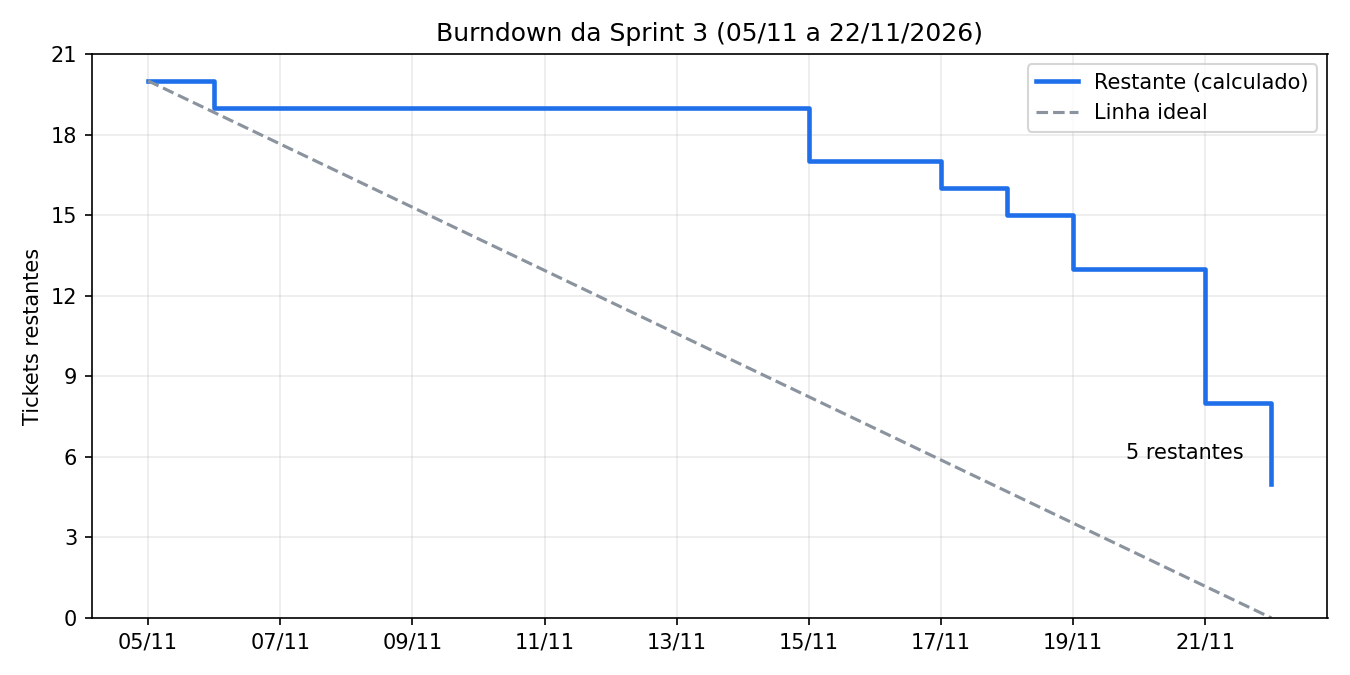
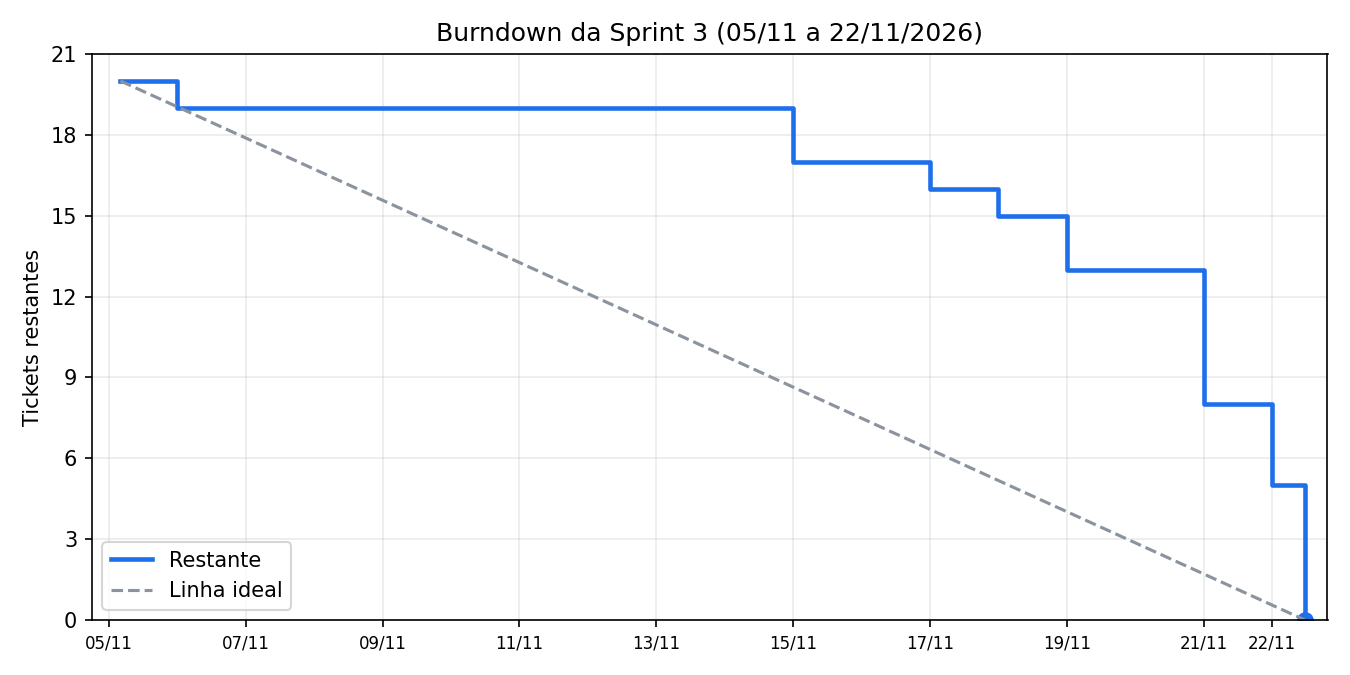
docs: SHIFU-117 close all Sprint 3 tickets and update the burndown
All 20 tickets are now counted as done in the report, stories included.
The burndown chart ends at zero at the end of the sprint.

diff --git a/documentation/sprints/sprint-3-report.md b/documentation/sprints/sprint-3-report.md
@@ -5,15 +5,15 @@
 
 ## Como ler este relatório
 
-Os números vêm do Jira (quadro 331, `Sprint = 499`), consultado em 22/11/2026 às 23:38. A decisão de fechamento é do solicitante: **todas as 17 tasks são consideradas prontas**. As 3 User Stories não entram nessa decisão e seguem o estado do Jira.
+Os números vêm do Jira (quadro 331, `Sprint = 499`), consultado em 22/11/2026 às 23:38. A decisão de fechamento é do solicitante: **todos os 20 tickets são considerados prontos**, as 3 User Stories e as 17 tasks. Esse é o mesmo critério usado nos relatórios das Sprints 1 e 2.
 
-O estado real do Jira é diferente e aparece em cada tabela. Ele mostra 14 tasks `Concluído` e 3 em `Code Review`. O Jira também ainda mostra a sprint como `active`, mesmo depois do fim configurado (23:30). Ela precisa ser encerrada no quadro.
+O estado real do Jira é diferente e aparece em cada tabela. Ele mostra 15 tickets em `Concluído`, 3 em `Code Review`, 1 em `Fazendo` e 1 em `A fazer`. O Jira também ainda mostra a sprint como `active`, mesmo depois do fim configurado (23:30). Ela precisa ser encerrada no quadro.
 
 ## Resumo executivo
 
-**18 dos 20 tickets estão prontos no fechamento (90%):** as 17 tasks e a história SHIFU-54. Ficaram abertas duas histórias: a SHIFU-22, em `A fazer`, e a SHIFU-53, em `Fazendo`. No Jira, só 15 tickets estão em `Concluído`.
+**Os 20 tickets estão prontos no fechamento (100%).** No Jira, só 15 estão em `Concluído`. Os outros cinco são as tasks SHIFU-98, SHIFU-121 e SHIFU-131 (`Code Review`) e as histórias SHIFU-53 (`Fazendo`) e SHIFU-22 (`A fazer`).
 
-A sprint teve 3 User Stories e 17 tasks. Só uma história tem pontos: a SHIFU-54, com **8 SP**, concluída. As outras duas não têm estimativa. Por isso não dá para comparar a Sprint 3 com os 58 SP da Sprint 1 nem com os 197 SP da Sprint 2.
+A sprint teve 3 User Stories e 17 tasks. Só uma história tem pontos: a SHIFU-54, com **8 SP**. As outras duas não têm estimativa. Por isso não dá para comparar a Sprint 3 com os 58 SP da Sprint 1 nem com os 197 SP da Sprint 2.
 
 O trabalho se concentrou em cinco frentes:
 
@@ -40,10 +40,12 @@ Itens marcados com * estão prontos por decisão do solicitante e ainda não est
 
 - Cota mensal compartilhada de IA entre Mentor e Planejador, com percentual usado e data de renovação, aviso em 80% e bloqueio das operações opcionais em 100% (SHIFU-54, 8 SP).
 - Página Uso da IA e indicador de cota no cabeçalho (SHIFU-118).
+- Compreender o resultado e receber orientação pedagógica (SHIFU-22*). A história não tem tasks vinculadas.
 
 ### Progresso
 
-- Resumo de evolução da Habilidade concluída e revisão sem alterar o resultado (SHIFU-125). A história que ela sustenta, a SHIFU-53, segue em `Fazendo`.
+- Resumo de evolução da Habilidade concluída e revisão sem alterar o resultado (SHIFU-125).
+- Concluir e revisar uma Habilidade preservando seu histórico (SHIFU-53*).
 
 ### Conta e engajamento
 
@@ -63,45 +65,40 @@ Itens marcados com * estão prontos por decisão do solicitante e ainda não est
 - Relatório de RDS, com banco espelhando o staging (SHIFU-127).
 - Relatório de DynamoDB e análise comparativa, com eventos do Shifu (SHIFU-128).
 
-## Prontas por decisão, sem `Concluído` no Jira
+## Prontos por decisão, sem `Concluído` no Jira
 
-Três tasks estão em `Code Review` no Jira. O relatório as considera prontas por decisão do solicitante. A revisão ainda não aconteceu, e nenhum dos três PRs foi mesclado.
+Cinco tickets não estão em `Concluído` no Jira. O relatório os considera prontos por decisão do solicitante. Para as três tasks, a revisão ainda não aconteceu e nenhum PR foi mesclado. Para as duas histórias, o aceite dos critérios não foi registrado.
 
-| Chave | Task | Estado no Jira | Situação |
+| Chave | Item | Estado no Jira | Situação |
 | --- | --- | --- | --- |
-| [SHIFU-98](https://joaogoliveiragarcia.atlassian.net/browse/SHIFU-98) | Exclusão definitiva da conta e eliminação coordenada dos dados | Code Review | [PR 61](https://github.com/CtrI-Alt-Del/shifu/pull/61) aberto como rascunho. A interface já foi mesclada no [PR 47](https://github.com/CtrI-Alt-Del/shifu/pull/47). |
-| [SHIFU-121](https://joaogoliveiragarcia.atlassian.net/browse/SHIFU-121) | Landing page pública com foco em evolução visível | Code Review | [PR 65](https://github.com/CtrI-Alt-Del/shifu/pull/65) aberto. |
-| [SHIFU-131](https://joaogoliveiragarcia.atlassian.net/browse/SHIFU-131) | Questões de escolha por imagem | Code Review | [PR 64](https://github.com/CtrI-Alt-Del/shifu/pull/64) aberto. Sem responsável no Jira. |
-
-## O que ficou aberto
-
-| Chave | História | Estado no Jira | Situação |
-| --- | --- | --- | --- |
-| [SHIFU-22](https://joaogoliveiragarcia.atlassian.net/browse/SHIFU-22) | Compreender o resultado e receber orientação pedagógica | A fazer | Sem responsável, sem estimativa e sem tasks vinculadas. Não foi iniciada. |
-| [SHIFU-53](https://joaogoliveiragarcia.atlassian.net/browse/SHIFU-53) | Concluir e revisar uma Habilidade preservando seu histórico | Fazendo | A task SHIFU-125 está concluída. Os critérios da história ainda não foram aceitos. Sem estimativa. |
+| [SHIFU-22](https://joaogoliveiragarcia.atlassian.net/browse/SHIFU-22) | História: Compreender o resultado e receber orientação pedagógica | A fazer | Sem responsável, sem estimativa e sem tasks vinculadas. Não foi iniciada. |
+| [SHIFU-53](https://joaogoliveiragarcia.atlassian.net/browse/SHIFU-53) | História: Concluir e revisar uma Habilidade preservando seu histórico | Fazendo | A task SHIFU-125 está concluída. Os critérios da história não foram aceitos. Sem estimativa. |
+| [SHIFU-98](https://joaogoliveiragarcia.atlassian.net/browse/SHIFU-98) | Task: Exclusão definitiva da conta e eliminação coordenada dos dados | Code Review | [PR 61](https://github.com/CtrI-Alt-Del/shifu/pull/61) aberto como rascunho. A interface já foi mesclada no [PR 47](https://github.com/CtrI-Alt-Del/shifu/pull/47). |
+| [SHIFU-121](https://joaogoliveiragarcia.atlassian.net/browse/SHIFU-121) | Task: Landing page pública com foco em evolução visível | Code Review | [PR 65](https://github.com/CtrI-Alt-Del/shifu/pull/65) aberto. |
+| [SHIFU-131](https://joaogoliveiragarcia.atlassian.net/browse/SHIFU-131) | Task: Questões de escolha por imagem | Code Review | [PR 64](https://github.com/CtrI-Alt-Del/shifu/pull/64) aberto. Sem responsável no Jira. |
 
 ## User Stories da Sprint
 
-| Chave | User Story | Épico | SP | Estado | Responsável |
-| --- | --- | --- | ---: | --- | --- |
-| [SHIFU-22](https://joaogoliveiragarcia.atlassian.net/browse/SHIFU-22) | Compreender o resultado e receber orientação pedagógica | 08/09 — Explicação e Feedback Pedagógico com IA | — | A fazer | — |
-| [SHIFU-53](https://joaogoliveiragarcia.atlassian.net/browse/SHIFU-53) | Concluir e revisar uma Habilidade preservando seu histórico | 07 — Acompanhamento de Progresso | — | Fazendo | — |
-| [SHIFU-54](https://joaogoliveiragarcia.atlassian.net/browse/SHIFU-54) | Controlar e acompanhar a cota mensal compartilhada de IA | 13 — Governança e Resiliência de IA | 8 | Concluído em 17/11 | — |
+| Chave | User Story | Épico | SP | Estado no fechamento | Estado no Jira | Responsável |
+| --- | --- | --- | ---: | --- | --- | --- |
+| [SHIFU-22](https://joaogoliveiragarcia.atlassian.net/browse/SHIFU-22) | Compreender o resultado e receber orientação pedagógica | 08/09 — Explicação e Feedback Pedagógico com IA | — | Concluído | A fazer | — |
+| [SHIFU-53](https://joaogoliveiragarcia.atlassian.net/browse/SHIFU-53) | Concluir e revisar uma Habilidade preservando seu histórico | 07 — Acompanhamento de Progresso | — | Concluído | Fazendo | — |
+| [SHIFU-54](https://joaogoliveiragarcia.atlassian.net/browse/SHIFU-54) | Controlar e acompanhar a cota mensal compartilhada de IA | 13 — Governança e Resiliência de IA | 8 | Concluído | Concluído em 17/11 | — |
 
-**Total estimado:** 8 SP, todos concluídos. A SHIFU-54 veio da Sprint 2 e foi concluída nesta. As SHIFU-22 e SHIFU-53 não têm SP. Nenhuma das três tem responsável no Jira.
+**Total estimado:** 8 SP, todos entregues. A SHIFU-54 veio da Sprint 2 e foi concluída nesta. As SHIFU-22 e SHIFU-53 não têm SP, então os pontos entregues subestimam o escopo das histórias. Nenhuma das três tem responsável no Jira.
 
 ## Tasks
 
-O Jira contém 17 tasks, sem pontos próprios. **As 17 são consideradas prontas no fechamento; 14 estão em `Concluído` no Jira.**
+O Jira contém 17 tasks, sem pontos próprios. **As 17 são consideradas concluídas no fechamento, por decisão do solicitante. No Jira, 14 estão em `Concluído` e 3 seguem em `Code Review` (SHIFU-98, SHIFU-121 e SHIFU-131).**
 
-| Chave | Task | Tipo | Responsável | Estado no Jira | Resolvida em |
+| Chave | Task | Tipo | Responsável | Estado no fechamento | Resolvida no Jira em |
 | --- | --- | --- | --- | --- | --- |
 | [SHIFU-85](https://joaogoliveiragarcia.atlassian.net/browse/SHIFU-85) | Implementar CD de Terraform e aplicações do Shifu para staging | Logical Task | João Pedro Carvalho | Concluído | 06/11 |
 | [SHIFU-87](https://joaogoliveiragarcia.atlassian.net/browse/SHIFU-87) | Integrar SonarCloud ao CI do Web e da API com cobertura, quality gate e comentários nos PRs | Logical Task | João Pedro Carvalho | Concluído | 15/11 |
-| [SHIFU-98](https://joaogoliveiragarcia.atlassian.net/browse/SHIFU-98) | Implementar exclusão definitiva da conta e eliminação coordenada dos dados | Dev Task | gabrielsoliveira1606 | **Code Review** | — |
+| [SHIFU-98](https://joaogoliveiragarcia.atlassian.net/browse/SHIFU-98) | Implementar exclusão definitiva da conta e eliminação coordenada dos dados | Dev Task | gabrielsoliveira1606 | Concluído | — |
 | [SHIFU-118](https://joaogoliveiragarcia.atlassian.net/browse/SHIFU-118) | Implementar página Uso da IA e indicador de cota no cabeçalho | Dev Task | João Pedro Carvalho | Concluído | 15/11 |
 | [SHIFU-119](https://joaogoliveiragarcia.atlassian.net/browse/SHIFU-119) | Implementar preferência de aparência em Minha conta | Dev Task | Kauan Fonseca | Concluído | 22/11 |
-| [SHIFU-121](https://joaogoliveiragarcia.atlassian.net/browse/SHIFU-121) | Implementar landing page pública do Shifu com foco em evolução visível | Dev Task | João Gabriel | **Code Review** | — |
+| [SHIFU-121](https://joaogoliveiragarcia.atlassian.net/browse/SHIFU-121) | Implementar landing page pública do Shifu com foco em evolução visível | Dev Task | João Gabriel | Concluído | — |
 | [SHIFU-122](https://joaogoliveiragarcia.atlassian.net/browse/SHIFU-122) | Implementar questões de tradução com digitação e ditado opcional | Dev Task | Kauan Fonseca | Concluído | 19/11 |
 | [SHIFU-123](https://joaogoliveiragarcia.atlassian.net/browse/SHIFU-123) | Implementar questões de lacunas com banco de palavras e arrastar e soltar | Dev Task | Kauan Fonseca | Concluído | 19/11 |
 | [SHIFU-124](https://joaogoliveiragarcia.atlassian.net/browse/SHIFU-124) | Implementar questões de associação de palavras e traduções | Dev Task | Kauan Fonseca | Concluído | 21/11 |
@@ -111,7 +108,7 @@ O Jira contém 17 tasks, sem pontos próprios. **As 17 são consideradas prontas
 | [SHIFU-128](https://joaogoliveiragarcia.atlassian.net/browse/SHIFU-128) | Entregar o relatório de DynamoDB e a análise comparativa da atividade de armazenamento em nuvem, com eventos do Shifu | Logical Task | gabrielsoliveira1606 | Concluído | 21/11 |
 | [SHIFU-129](https://joaogoliveiragarcia.atlassian.net/browse/SHIFU-129) | Implementar questões de ordenação de etapas | Dev Task | João Gabriel | Concluído | 21/11 |
 | [SHIFU-130](https://joaogoliveiragarcia.atlassian.net/browse/SHIFU-130) | Implementar questões de Preparação Prática culinária | Dev Task | João Gabriel | Concluído | 22/11 |
-| [SHIFU-131](https://joaogoliveiragarcia.atlassian.net/browse/SHIFU-131) | Implementar questões de escolha por imagem | Dev Task | — | **Code Review** | — |
+| [SHIFU-131](https://joaogoliveiragarcia.atlassian.net/browse/SHIFU-131) | Implementar questões de escolha por imagem | Dev Task | — | Concluído | — |
 | [SHIFU-132](https://joaogoliveiragarcia.atlassian.net/browse/SHIFU-132) | Implementar lembrete de sequência por push no navegador com horário escolhido | Dev Task | João Pedro Carvalho | Concluído | 21/11 |
 
 ## Distribuição do trabalho
@@ -141,35 +138,36 @@ Quatro itens mudaram de responsável em relação ao relatório da Sprint 2:
 | 05 — Atividades e Práticas | 6 | 6 | 5 |
 | 01 — Identidade e Conta do Usuário | 3 | 3 | 1 |
 | 13 — Governança e Resiliência de IA | 2 | 2 | 2 |
-| 07 — Acompanhamento de Progresso | 2 | 1 | 1 |
+| 07 — Acompanhamento de Progresso | 2 | 2 | 1 |
 | 16 — Gamificação | 1 | 1 | 1 |
-| 08/09 — Explicação e Feedback Pedagógico com IA | 1 | 0 | 0 |
+| 08/09 — Explicação e Feedback Pedagógico com IA | 1 | 1 | 0 |
 | Sem épico (Logical Tasks de infraestrutura e relatórios) | 5 | 5 | 5 |
-| **Total** | **20** | **18** | **15** |
+| **Total** | **20** | **20** | **15** |
 
 ## Métricas de fechamento
 
 | Métrica | Resultado |
 | --- | ---: |
 | Tickets na Sprint | 20 |
-| Tickets considerados prontos no fechamento | 18 de 20 (90%) |
+| Tickets considerados prontos no fechamento | 20 de 20 (100%) |
 | Tickets em `Concluído` no Jira na consulta | 15 de 20 (75%) |
 | Tickets em `Code Review` no Jira na consulta | 3 (SHIFU-98, SHIFU-121, SHIFU-131) |
-| Tickets em `Fazendo` no Jira | 1 (SHIFU-53) |
-| Tickets em `A fazer` no Jira | 1 (SHIFU-22) |
+| Tickets em `Fazendo` no Jira na consulta | 1 (SHIFU-53) |
+| Tickets em `A fazer` no Jira na consulta | 1 (SHIFU-22) |
 | User Stories | 3 |
-| User Stories em `Concluído` | 1 de 3 |
+| User Stories consideradas prontas no fechamento | 3 de 3 |
+| User Stories em `Concluído` no Jira na consulta | 1 de 3 |
 | Tasks | 17 |
 | Tasks consideradas prontas no fechamento | 17 de 17 (100%) |
 | Tasks em `Concluído` no Jira na consulta | 14 de 17 |
 | Story Points estimados | 8 SP (só a SHIFU-54) |
-| Story Points em histórias `Concluído` | 8 de 8 SP |
+| Story Points considerados entregues | 8 SP |
 | Histórias sem estimativa | 2 (SHIFU-22 e SHIFU-53) |
 | Itens vindos da Sprint 2 | 4 (SHIFU-54, SHIFU-85, SHIFU-87, SHIFU-98) |
 
 ## Ritmo de conclusão
 
-Os 15 tickets em `Concluído` no Jira foram resolvidos em sete dias diferentes. A data é a de resolução no Jira, que pode diferir do dia em que o trabalho foi feito. As três tasks prontas por decisão não têm data de resolução e ficam fora da tabela.
+Os 15 tickets em `Concluído` no Jira foram resolvidos em sete dias diferentes. A data é a de resolução no Jira, que pode diferir do dia em que o trabalho foi feito. Os cinco tickets prontos por decisão não têm data de resolução e ficam fora da tabela.
 
 | Dia | Resolvidos | Restantes no Jira ao fim do dia |
 | --- | ---: | ---: |
@@ -191,29 +189,28 @@ Os 15 tickets em `Concluído` no Jira foram resolvidos em sete dias diferentes. 
 
 ![Gráfico de burndown da Sprint 3](../media/burndown-sprint-3.png)
 
-Este gráfico **não é o do Jira**. Eu o calculei a partir das datas de resolução, em **quantidade de tickets**. O gráfico do Jira não estava disponível e deve substituir este quando for exportado.
+Este gráfico **não é o do Jira**. Eu o calculei a partir das datas de resolução, em **quantidade de tickets**, e marquei cada resolução ao meio-dia do dia em que ocorreu. O gráfico do Jira não estava disponível e deve substituir este quando for exportado.
 
 - **Início:** parte de 20 tickets, o total atual da sprint. A SHIFU-132 foi criada em 12/11, depois do início. Ela provavelmente entrou durante a sprint, mas não consegui confirmar. Se foi isso, o início real foi de 19 tickets.
 - **Curva:** o trabalho restante fica acima da linha ideal durante toda a sprint. A queda se concentra a partir de 15/11.
-- **Fim:** o gráfico termina com 5 tickets restantes, porque as tasks SHIFU-98, SHIFU-121 e SHIFU-131 não estavam em `Concluído` no Jira. Com o fechamento do solicitante, restam 2 tickets: as histórias SHIFU-22 e SHIFU-53.
+- **Fim:** a curva chega a 5 tickets restantes em 22/11 e vai a zero no fim da sprint (22/11, 23:30). Esses 5 tickets não têm data de resolução no Jira. Eles entram como concluídos no fim da sprint, porque os 20 tickets são considerados prontos.
 
 ## Riscos e observações para o fechamento
 
 - **Meta:** o campo de meta da sprint no Jira está vazio. A meta deste relatório é uma síntese documental e precisa de confirmação da equipe.
-- **Tasks prontas sem revisão:** as SHIFU-98, SHIFU-121 e SHIFU-131 estão em `Code Review`, com PRs abertos e não mesclados. O código delas ainda não está na `main`. O da SHIFU-98 é rascunho, e a SHIFU-131 não tem responsável no Jira. Este relatório as considera prontas por decisão do solicitante, mas a revisão ainda não aconteceu.
-- **Histórias abertas:** as SHIFU-22 e SHIFU-53 precisam de uma decisão: concluir, mover para a próxima sprint ou devolver ao backlog.
+- **Tasks prontas sem revisão:** as SHIFU-98, SHIFU-121 e SHIFU-131 estão em `Code Review`, com PRs abertos e não mesclados. O código delas ainda não está na `main`. O da SHIFU-98 é rascunho, e a SHIFU-131 não tem responsável no Jira. A revisão ainda não aconteceu.
+- **Histórias prontas sem aceite:** as SHIFU-22 e SHIFU-53 estão prontas por decisão do solicitante, sem aceite dos critérios no Jira. Concluir a task SHIFU-125 não comprova os critérios da SHIFU-53.
+- **SHIFU-22 sem trabalho registrado:** a história não tem tasks vinculadas, responsável nem andamento no Jira. Ela depende de resultado oficial (SHIFU-20), resiliência de IA (SHIFU-23) e limites pedagógicos (SHIFU-47). Sem evidência, não há como confirmar que seus critérios foram atendidos.
 - **Histórias sem estimativa:** as SHIFU-22 e SHIFU-53 entraram na sprint sem SP. No backlog da Sprint 2 elas já apareciam sem estimativa e sem sprint. A checklist de ambas também mostra pendentes o protótipo aprovado e a estimativa do time.
-- **SHIFU-22 não iniciada:** a história não tem tasks vinculadas, responsável nem andamento. Ela depende de resultado oficial (SHIFU-20), resiliência de IA (SHIFU-23) e limites pedagógicos (SHIFU-47).
-- **SHIFU-53:** concluir a task SHIFU-125 não comprova os critérios da história. A história precisa de aceite.
 - **Itens herdados da Sprint 2:** o relatório da Sprint 2 considerou as SHIFU-85, SHIFU-87 e SHIFU-98 prontas por decisão do solicitante. No Jira, as duas primeiras só foram resolvidas nesta sprint (06/11 e 15/11), e a SHIFU-98 ainda está em revisão.
 - **Histórias da Sprint 2 fora de sprint aberta:** na consulta de hoje, 23 das 27 histórias da Sprint 2 estão `Concluído`. Quatro seguem em `Fazendo` e não estão na Sprint 3: SHIFU-33 (13 SP), SHIFU-36 (3 SP), SHIFU-114 (5 SP) e SHIFU-116 (8 SP), somando 29 SP. A task SHIFU-98, ainda em revisão, trata da exclusão de conta, tema da SHIFU-33.
-- **Capacidade:** só 8 SP têm estimativa, e a sprint foi quase toda de tasks sem pontos. Não há base para definir a capacidade da Sprint 4 por Story Points.
+- **Capacidade:** só 8 SP têm estimativa, e a sprint foi quase toda de tasks sem pontos. Com o fechamento em 100%, os 8 SP subestimam o que foi entregue. Não há base para definir a capacidade da Sprint 4 por Story Points.
 - **Aceite e evidências:** não há ata de aceite nem vídeo vinculado ao Jira. Concluir uma task não comprova os critérios da história. Este relatório não verificou as evidências de cada feature, como a Spec e a Evaluation no repositório.
 - **Backlog da sprint:** não existe página de Backlog da Sprint 3 no Confluence nem arquivo local. O escopo foi lido direto do Jira.
 
 ## Fontes
 
-- Jira, projeto Shifu, quadro 331: `project = SHIFU AND sprint = 499`, 20 issues, consultado em 22/11/2026 às 23:38. Estados de fechamento das tasks conforme decisão do solicitante.
+- Jira, projeto Shifu, quadro 331: `project = SHIFU AND sprint = 499`, 20 issues, consultado em 22/11/2026 às 23:38. Estados de fechamento conforme decisão do solicitante.
 - Descrições e critérios das histórias SHIFU-22, SHIFU-53 e SHIFU-54 no Jira, consultados na mesma data.
 - Jira, histórias da Sprint 2 (`sprint = 498`), para o estado atual dos itens herdados.
 - Pull requests do repositório no GitHub, consultados com `gh`, para as tasks em `Code Review`.
